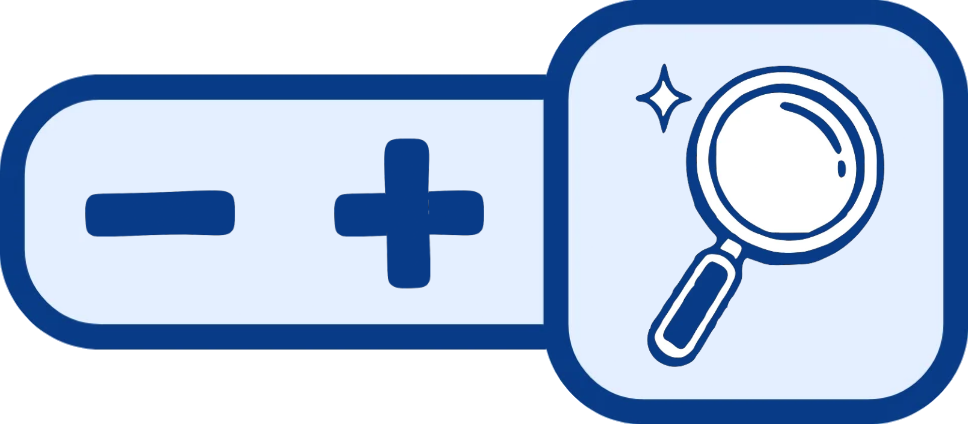
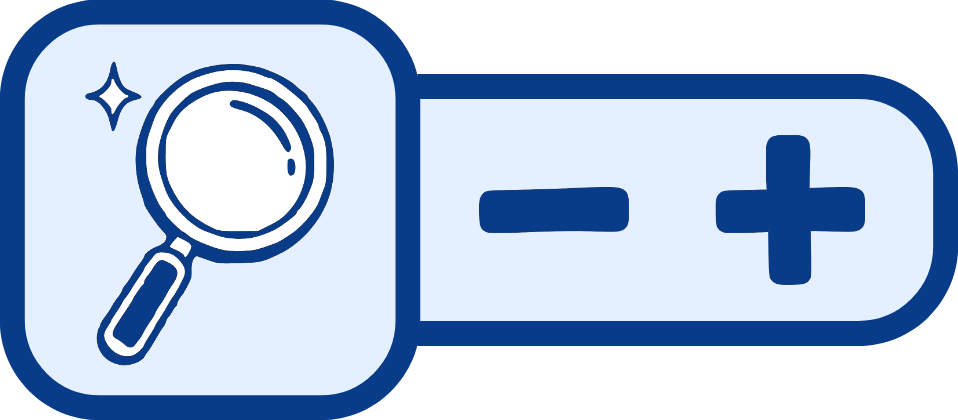
Change resize and change layout

diff --git a/style.css b/style.css
@@ -1,105 +1,48 @@
-
-.spacing {
-    height: 2vmin;
-}
-
 #buttons {
-    width: 25vmin;
+    display: flex;
+    justify-content: center;
+    height: 12vmin;
 }
-
-#resize {
+#guidelines img, #undo img, #settings img, #resize img{
     position: relative;
+    top: 0%;
+    left: 0%;
     width: 100%;
+    height: 100%;
 }
-
-#resize img {
-    display: block;
-    width: 100%;
+#buttons button{
+        background: transparent;
+    border: none;
+    cursor: pointer;
 }
-
+#resize {
+    display: flex;
+    position: relative;
+}
 #decrease {
     position: absolute;
     top: 45%;
-    left: 8.6%;
+    left: 50%;
     width: 16%;
     height: 11%;
     background: transparent;
     border: none;
     cursor: pointer;
 }
-
 #increase {
     position: absolute;
     top: 32.69%;
-    left: 34%;
+    left: 74%;
     width: 16%;
-    height: 35.2%;
-    background: transparent;
-    border: none;
-    cursor: pointer;
+    height: 35.2%
 }
 
-#guidelines {
-    position: relative;
-    left: 56%;
-    width: 44%;
-    aspect-ratio: 1/1;
-    background: transparent;
-    border: none;
-    cursor: pointer;
-}
-
-#guidelines img {
-    position: absolute;
-    left: 0%;
-    top: 0%;
-    width: 100%;
-}
-
-#undo {
-    position: relative;
-    left: 56%;
-    width: 44%;
-    aspect-ratio: 1/1;
-    background: transparent;
-    border: none;
-    cursor: pointer;
-}
-
-#undo img {
-    position: absolute;
-    left: 0%;
-    top: 0%;
-    width: 100%;
-}
-
-#settings {
-    position: relative;
-    left: 56%;
-    width: 44%;
-    aspect-ratio: 1/1;
-    background: transparent;
-    border: none;
-    cursor: pointer;
-}
-
-#settings img {
-    position: absolute;
-    left: 0%;
-    top: 0%;
-    width: 100%;
-}
-#drawingTools {
-    position: fixed;
-    top: 50%;
-    left: 50%;
-    transform: translate(calc(-50% - 18vmin), -50%);
+#canvasRow {
     display: flex;
+    height: calc(100vh - 15vh);
     align-items: center;
-    gap: 2vmin;
-}
-#buttons {
-    position: relative;
+    justify-content: center;
+    gap: 5vmin;
 }
 #canvasStyling {
     position: relative;
@@ -112,9 +55,20 @@
     height: 100%;
 }
 #canvasA {
-    z-index: 2;
     position: absolute;
-    width: 95%;
-    height: 95%;
+    width: 100%;
+    height: 100%;
+    z-index: 2;
     touch-action: none;
+}
+#previous, #next {
+    background: transparent;
+    border: none;
+    width: 12vmin;
+    cursor: pointer;
+}
+#previous img, #next img {
+    position: relative;
+    width: 100%;
+    height: 100%;
 }

diff --git a/index.html b/index.html
@@ -9,30 +9,36 @@
     <link rel="stylesheet" href="style.css">
 </head>
 <body>
-    <div id="drawingTools">
+    <div id="wrapper">
         <div id="buttons">
+            <button id="guidelines" type="button">
+                <img src="images/guidelines.png">
+            </button>
+            <button id="undo" type="button">
+                <img src="images/undo.png">
+            </button>
+            <button id="settings" type="button">
+                <img src="images/settings.png">
+            </button>
             <div id="resize">
                 <img src="images/resize.png">
                 <button id="decrease" type="button"></button>
                 <button id="increase" type="button"></button>
             </div>
-            <div class="spacing"></div>
-            <button id="guidelines">
-                <img src="images/guidelines.png">
+        </div>
+        <div id="canvasRow">
+            <button id="previous" type="button">
+                <img src="images/previous.png">
             </button>
-            <div class="spacing"></div>
-            <button id="undo">
-                <img src="images/undo.png">
-            </button>
-            <div class="spacing"></div>
-            <button id="settings">
-                <img src="images/settings.png"
+            <div id="canvasStyling">
+                <canvas id="canvasA"></canvas>
+                <img src="images/canvasbg.png" id="canvasBG">
+            </div>
+            <button id="next" type="button">
+                <img src="images/next.png">
             </button>
         </div>
-        <div id="canvasStyling">
-            <canvas id="canvasA"></canvas>
-            <img src="images/canvasbg.png" id="canvasBG">
-        </div>
+        
     </div>
 </body>
 </html>
